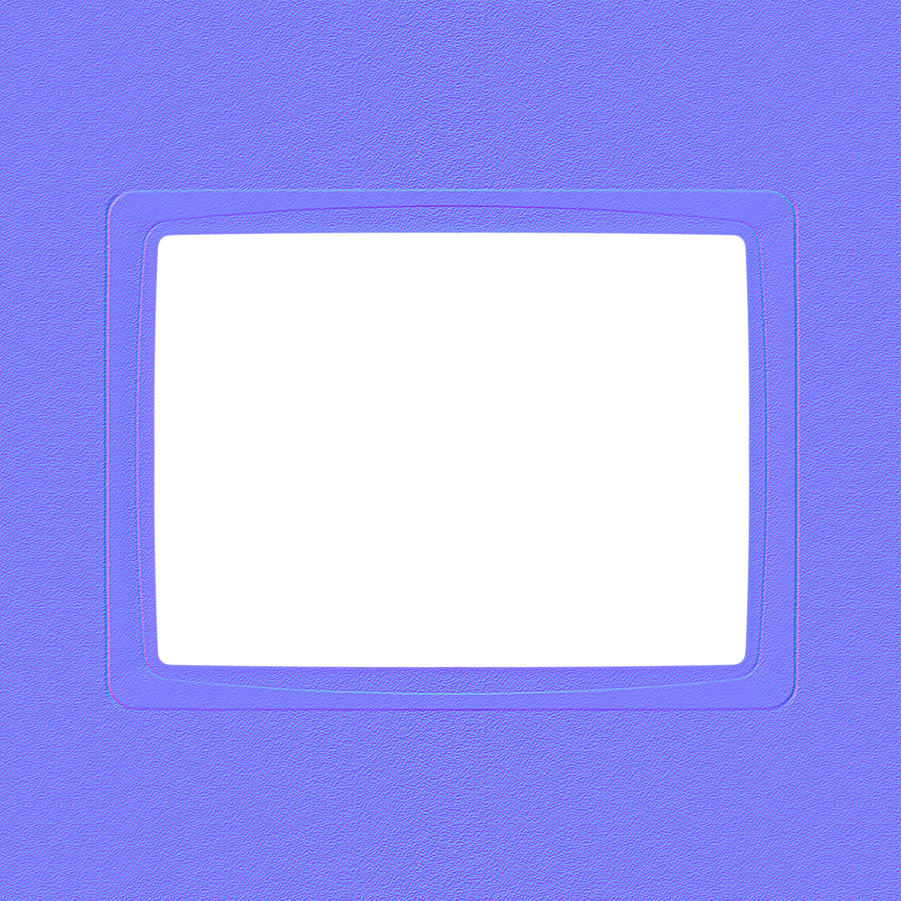
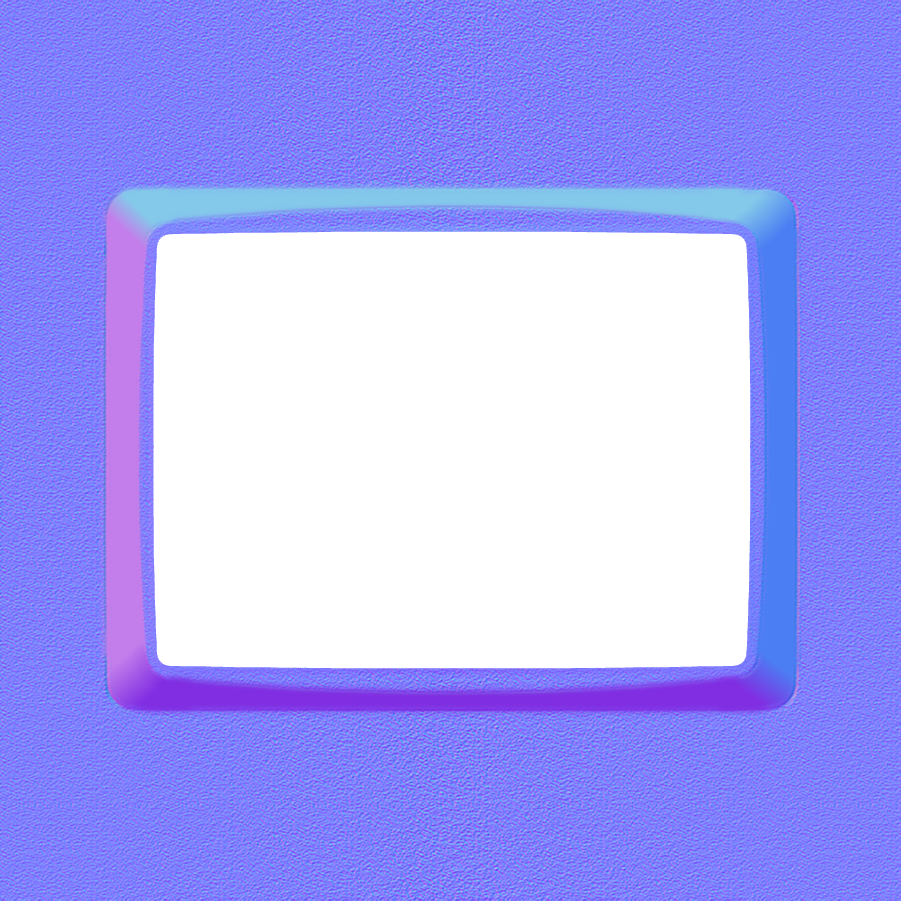
Normals on the frame are now woriking correctly. The screen light coherently the frame.

diff --git a/app/frames/utils/FrameShader.qml b/app/frames/utils/FrameShader.qml
@@ -1,0 +1,46 @@
+import QtQuick 2.1
+
+ShaderEffect{
+    property variant source: framesource
+    property variant normals: framesourcenormals
+    property real screen_distorsion: shadersettings.screen_distortion
+    property real ambient_light: shadersettings.ambient_light
+    property color font_color: shadersettings.font_color
+    property color background_color: shadersettings.background_color
+    property real brightness: shadercontainer.brightness
+
+    property color reflection_color: Qt.rgba((font_color.r*0.3 + background_color.r*0.7),
+                                             (font_color.g*0.3 + background_color.g*0.7),
+                                             (font_color.b*0.3 + background_color.b*0.7),
+                                             1.0)
+
+
+    fragmentShader: "
+                            uniform sampler2D source;
+                            uniform sampler2D normals;
+                            uniform highp float screen_distorsion;
+                            uniform highp float ambient_light;
+
+                            uniform vec4 reflection_color;
+                            uniform highp float brightness;
+
+                            varying highp vec2 qt_TexCoord0;
+
+                            vec2 distortCoordinates(vec2 coords){
+                                vec2 cc = coords - vec2(0.5);
+                                float dist = dot(cc, cc) * screen_distorsion;
+                                return (coords + cc * (1.0 + dist) * dist);
+                            }
+
+                            void main(){
+                                vec2 coords = distortCoordinates(qt_TexCoord0);
+                                vec4 txt_color = texture2D(source, coords);
+                                vec4 txt_normal = texture2D(normals, coords);
+                                vec3 normal = normalize(txt_normal.rgb * 2.0 - 1.0);
+                                vec3 light_dir = normalize(vec3(0.5,0.5, 0.0) - vec3(qt_TexCoord0, 0.0));
+                                float reflection = dot(normal, light_dir) * 0.4 * brightness + 0.2;
+                                vec3 final_color = reflection_color * reflection * 0.5;
+                                final_color += txt_color * ambient_light;
+                                gl_FragColor = vec4(final_color * txt_normal.a, txt_color.a);
+                            }"
+}

diff --git a/app/frames/utils/TerminalFrame.qml b/app/frames/utils/TerminalFrame.qml
@@ -46,11 +46,11 @@ Item{
         sourceItem: frameimage
         hideSource: true
     }
-//    ShaderEffectSource{
-//        id: framesourcenormals
-//        sourceItem: framenormals
-//        hideSource: true
-//    }
+    ShaderEffectSource{
+        id: framesourcenormals
+        sourceItem: framenormals
+        hideSource: true
+    }
     Loader{
         anchors.fill: frameimage
         source: shaderString

diff --git a/app/frames/WhiteSimpleFrame.qml b/app/frames/WhiteSimpleFrame.qml
@@ -12,8 +12,8 @@ TerminalFrame{
     borderTop: 116
     borderBottom: 116
     imageSource: "../images/screen-frame.png"
-    //normalsSource: "../images/screen-frame-normals.png"
+    normalsSource: "../images/screen-frame-normals.png"
     sourceRect: Qt.rect(-65, -75, terminal.width + 130, terminal.height + 150)
 
-    shaderString: "WhiteFrameShader.qml"
+    shaderString: "FrameShader.qml"
 }

diff --git a/app/frames/BlackRoughFrame.qml b/app/frames/BlackRoughFrame.qml
@@ -16,5 +16,5 @@ TerminalFrame{
     normalsSource: "../images/black-frame-normals.png"
     sourceRect: Qt.rect(-80, -90, terminal.width + 160, terminal.height + 180)
 
-    shaderString: "WhiteFrameShader.qml"
+    shaderString: "FrameShader.qml"
 }

diff --git a/app/frames/NoFrame.qml b/app/frames/NoFrame.qml
@@ -5,8 +5,8 @@ TerminalFrame{
     id: frame
     z: 2.1
     anchors.fill: parent
-    addedWidth: 190
-    addedHeight: 190
+    addedWidth: 140
+    addedHeight: 140
     borderLeft: 116
     borderRight: 116
     borderTop: 116
